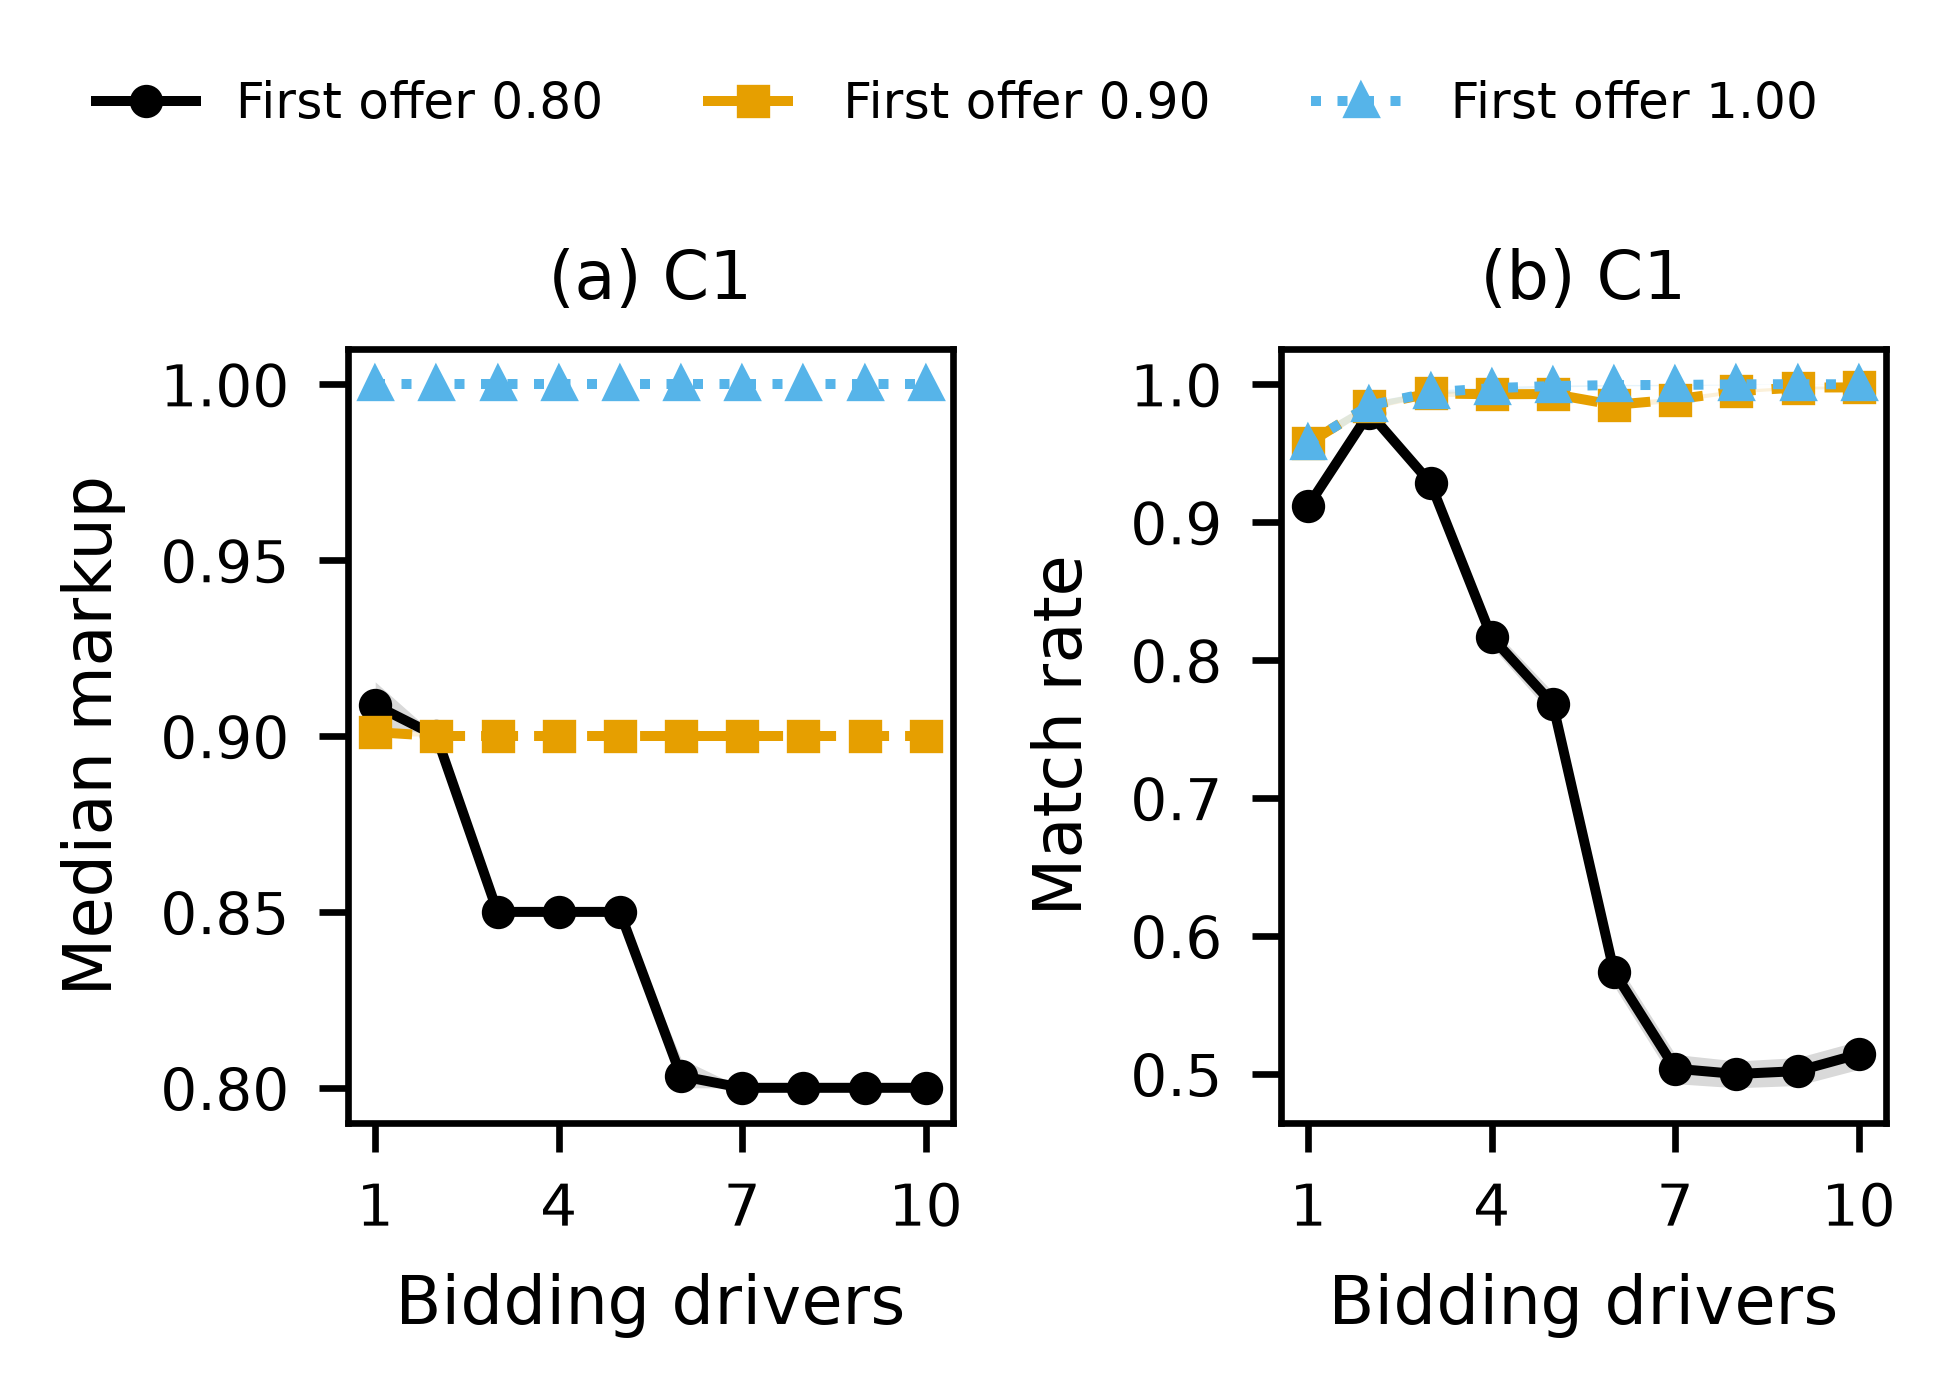
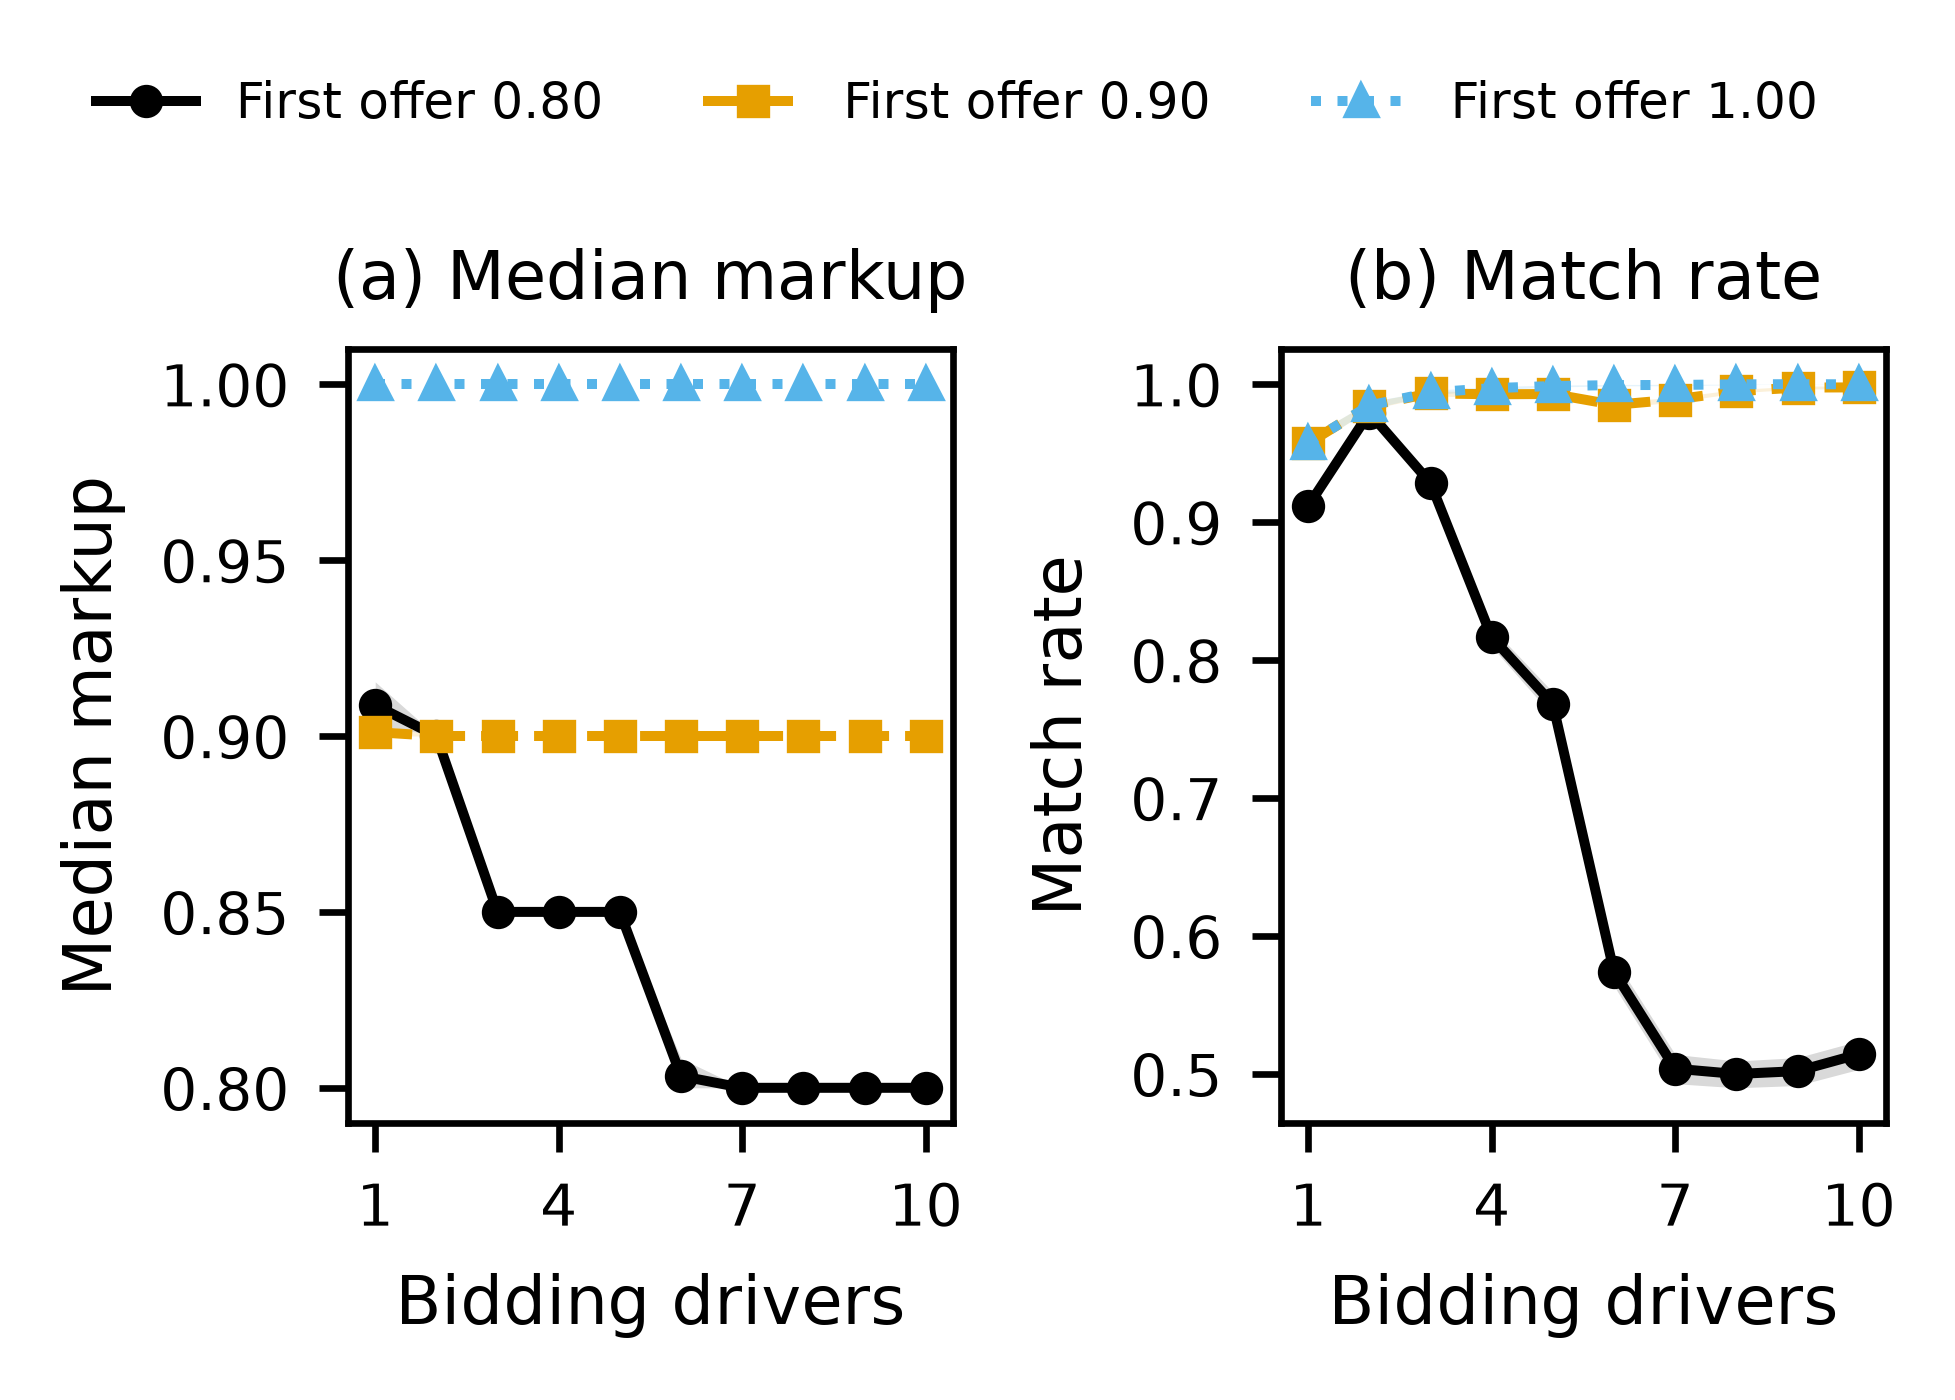
docs: 2차 피드백 반영 - 보류 경로 사후 규칙·절감 격자 숫자 추가, 그림 4 패널 제목 정리

Changed region(s): [[0.156, 0.1536, 0.4992, 0.215], [0.6864, 0.1536, 0.9361, 0.215]]

diff --git a/scripts/paper/collect_numbers.py b/scripts/paper/collect_numbers.py
@@ -438,6 +438,17 @@ def collect(root):
         return int(round(float(v) * 10000)), f"{at} × 10,000"
     add("사후: 경로 1만 건당 예보 호출 수, 현행 지점 조회", lambda: per_10k("current_points"))
     add("사후: 경로 1만 건당 예보 호출 수, 제안(M2, 예산 비율 0.5)", lambda: per_10k("proposed_M2"))
+
+    # Second feedback round (paper-revision-v1 X14, 2026-10-15, appended): held-out check of the post-hoc rule and
+    # the grid points behind the call savings.
+    add("사후: HOLDOUT MAE(mm/h) [95% CI], H-P, 예산 비율 0.5",
+        lambda: with_ci(pmae, "mae", "ci_lo", "ci_hi", subset="HOLDOUT", method="H-P", rho="0.5"))
+    for m in ["B1", "M2", "H-P"]:
+        add(f"사후: B1의 k/U = 1.0 MAE에 처음 도달한 예산 비율(0.05 격자), {m}",
+            lambda m=m: src.cell(psav, "first_rho", method=m))
+    for m in ["M1", "M2"]:
+        add(f"최대 강수 셀 적중률(k/U = 0.5), MAIN, {m}",
+            lambda m=m: src.cell(f"{ma}/T1_table.csv", "max_hit_rho50", subset="MAIN", method=m))
     return items
 
 

diff --git a/scripts/figures/f10_offer.py b/scripts/figures/f10_offer.py
@@ -35,8 +35,8 @@ def make(results_dir, out_dir):
         rows = style.read_csv(os.path.join(results_dir, *parts, "E1_summary.csv"))
         series.append((level, sorted((int(r["n"]), r) for r in rows if r["config"] == CONFIG)))
     fig, (a, b) = plt.subplots(1, 2, figsize=style.SINGLE)
-    _panel(a, series, "markup_median", "ci_lo", "ci_hi", "Median markup", f"(a) {CONFIG}")
-    _panel(b, series, "match_rate", "mr_ci_lo", "mr_ci_hi", "Match rate", f"(b) {CONFIG}")
+    _panel(a, series, "markup_median", "ci_lo", "ci_hi", "Median markup", "(a) Median markup")
+    _panel(b, series, "match_rate", "mr_ci_lo", "mr_ci_hi", "Match rate", "(b) Match rate")
     handles, labels = a.get_legend_handles_labels()
     fig.legend(handles, labels, **LEGEND)          # one legend for both panels, above them
     fig.tight_layout(rect=(0, 0, 1, 0.9))

diff --git a/scripts/paper/test_renumber_refs.py b/scripts/paper/test_renumber_refs.py
@@ -90,7 +90,7 @@ def test_the_real_reference_list_parses():
     if not real.exists():
         pytest.skip("paper/ is local only")
     refs = rr.parse_references(real.read_text(encoding="utf-8"))
-    assert len(refs) == 22                                          # 19 + F4, J1, J2 (paper-revision-v1 X7)
+    assert len(refs) == 23                                          # 19 + F4, J1, J2 (X7) + H5 (X14)
     for required in ("A1", "B1", "B3", "C1", "C5", "E1", "E2", "D1", "D2", "F3", "F1", "H1", "H3", "H2", "I1", "I2",
                      "F4", "J1", "J2"):
         assert required in refs
